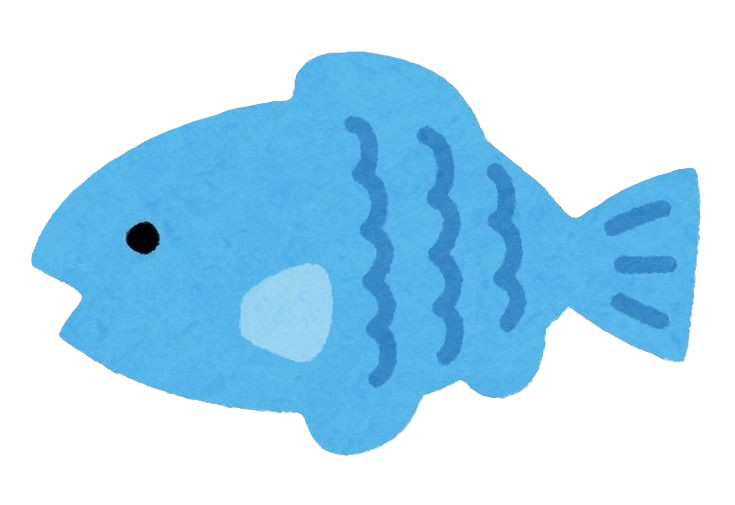
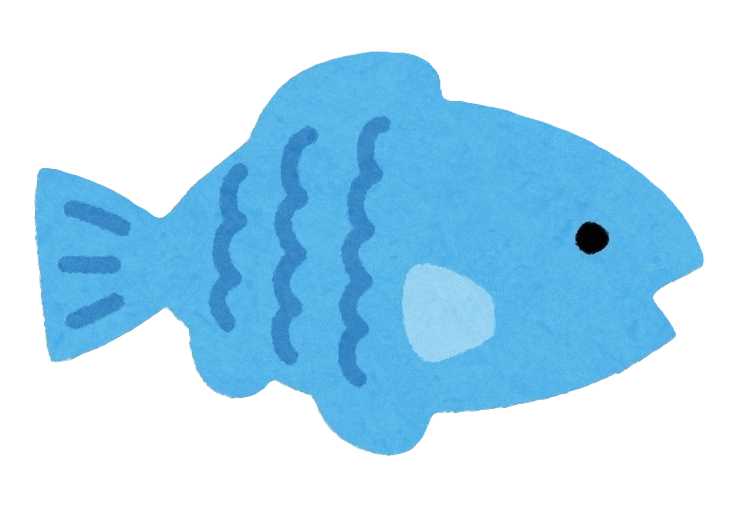
commit

Changed region(s): [[0.0299, 0.1485, 0.9578, 0.9208], [0.3592, 0.0891, 0.5986, 0.2079]]

diff --git a/fishing.py b/fishing.py
@@ -8,6 +8,8 @@ pygame.init()
 # 設定遊戲視窗大小
 screen_width = 640
 screen_height = 480
+max_x = 600
+max_y = 400
 screen = pygame.display.set_mode((screen_width, screen_height))
 pygame.display.set_caption('釣魚遊戲')
 
@@ -16,11 +18,18 @@ background_image = pygame.image.load("background.png")
 background_image = pygame.transform.scale(background_image, (screen_width, screen_height))  # 調整背景圖片大小
 
 # 載入魚的圖片
-fish1_image = pygame.image.load("fish1.png")
-fish1_image = pygame.transform.scale(fish1_image, (50,50))
+fish_images = []
+for i in range(1, 5): 
+    img = pygame.image.load(f"fish{i}.png")
+    img = pygame.transform.scale(img, (50, 50))
+    fish_images.append(img)
 
-fish2_image = pygame.image.load("fish2.png")
-fish2_image = pygame.transform.scale(fish2_image, (50,50))
+# 載入垃圾的圖片
+trash_images = []
+for i in range(1, 4): 
+    img = pygame.image.load(f"trash{i}.png")
+    img = pygame.transform.scale(img, (50, 50))
+    trash_images.append(img)
 
 fishing_rod = pygame.image.load("fishingRod.png")
 fishing_rod = pygame.transform.scale(fishing_rod, (50, 50))
@@ -32,10 +41,29 @@ if not cap.isOpened():
     exit()
 
 # 設定魚的位置
-fish_x = random.randint(50, screen_width - 50)
-fish_y = random.randint(50, screen_height - 50)
-fish_speed_x = random.choice([-1, 1]) * random.uniform(0.5, 2)
-fish_speed_y = random.choice([-1, 1]) * random.uniform(0.5, 2)
+fish_pos = []
+for _ in range(10):
+    fish = {
+        "x": random.randint(0, max_x),
+        "y": random.randint(60, max_y),
+        "speed_x": random.uniform(-2, 2),
+        "speed_y": random.uniform(0, 2),
+        "image": random.choice(fish_images),
+    }
+    fish["image_flip"] = pygame.transform.flip(fish["image"], True, False)
+    fish_pos.append(fish)
+
+# 設定垃圾的位置
+trash_pos = []
+for _ in range(4):
+    trash = {
+        "x": random.randint(0, max_x),
+        "y": random.randint(60, max_y),
+        "speed_x": random.uniform(-2, 2),
+        "speed_y": random.uniform(0, 2),
+        "image": random.choice(trash_images),
+    }
+    trash_pos.append(trash)
 
 score = 0
 # 遊戲主循環
@@ -57,34 +85,77 @@ while running:
     screen.blit(fishing_rod, (screen.get_width() - fishing_rod.get_width() - 10, 10))
 
     # 更新魚的位置
-    fish_x += fish_speed_x
-    fish_y += fish_speed_y
+    for fish in fish_pos:
+        fish["x"] += fish["speed_x"]
+        fish["y"] += fish["speed_y"]
 
-    # 如果魚碰到邊界，讓牠反向游
-    if fish_x <= 0 or fish_x >= screen_width - 50:
-        fish_speed_x *= -1
-    if fish_y <= 0 or fish_y >= screen_width - 50:
-        fish_speed_y *= -1
+        # 如果魚碰到邊界，讓牠反向游
+        if fish["x"] <= 0 or fish["x"] >= max_x:
+            fish["speed_x"] *= -1
+        if fish["y"] <= 70 or fish["y"] >= max_y:
+            fish["speed_y"] *= -1
 
-    #有小機率讓魚的方向稍微改變，增加自然感
-    if random.random() < 0.01:
-        fish_speed_x += random.uniform(-0.5, 0.5)
-        fish_speed_y += random.uniform(-0.5, 0.5)
+        #有小機率讓魚的方向稍微改變，增加自然感
+        if random.random() < 0.01:
+            fish["speed_x"] += random.uniform(-0.5, 0.5)
+            fish["speed_y"] += random.uniform(-0.5, 0.5)
 
-    #限制最大速度
-    fish_speed_x = max(min(fish_speed_x, 2), -2)
-    fish_speed_y = max(min(fish_speed_y, 2), -2)
+        #限制最大速度
+        fish["speed_x"] = max(min(fish["speed_x"], 2), -2)
+        fish["speed_y"] = max(min(fish["speed_y"], 2), -2)
+
+    # 更新垃圾的位置
+    for trash in trash_pos:
+        trash["x"] += trash["speed_x"]
+        trash["y"] += trash["speed_y"]
+
+        # 如果垃圾碰到邊界，讓牠反向游
+        if trash["x"] <= 0 or trash["x"] >= max_x:
+            trash["speed_x"] *= -1
+        if trash["y"] <= 70 or trash["y"] >= max_y:
+            trash["speed_y"] *= -1
+
+        #限制最大速度
+        trash["speed_x"] = max(min(trash["speed_x"], 2), -2)
+        trash["speed_y"] = max(min(trash["speed_y"], 2), -2)
 
     # 根據亮度決定魚的出現機率
-    if brightness < 150:
-        screen.blit(fish1_image, (fish_x, fish_y))
+    if brightness < 100:
+        for fish in fish_pos: 
+            if fish["speed_x"] < 0:
+                screen.blit(fish["image_flip"], (fish["x"], fish["y"]))
+            else:
+                screen.blit(fish["image"], (fish["x"], fish["y"]))
+        
+        for trash in trash_pos:
+            screen.blit(trash["image"], (trash["x"], trash["y"]))
+
+    elif brightness > 100 and brightness < 150:
+        for fish in fish_pos[1:7]: 
+            if fish["speed_x"] < 0:
+                screen.blit(fish["image_flip"], (fish["x"], fish["y"]))
+            else:
+                screen.blit(fish["image"], (fish["x"], fish["y"]))
+
+        for trash in trash_pos:
+            screen.blit(trash["image"], (trash["x"], trash["y"]))
+
+    else:
+        for fish in fish_pos[6:]:
+            if fish["speed_x"] < 0:
+                screen.blit(fish["image_flip"], (fish["x"], fish["y"]))
+            else:
+                screen.blit(fish["image"], (fish["x"], fish["y"]))
+        for trash in trash_pos:
+            screen.blit(trash["image"], (trash["x"], trash["y"]))
 
     # 顯示目前的亮度值
     font = pygame.font.SysFont(None, 30)
     text = font.render(f"亮度: {int(brightness)}", True, (0, 0, 0))
-    screen.blit(text, (10, 10))
+    screen.blit(text, (30, 40))
 
-    text2 = font.render("分數: {score}", True, (0, 0, 0))
+    #分數
+    text2 = font.render(f"score: {int(score)}", True, (0, 0, 0))
     screen.blit(text2, (15, 10))
 
     # 更新顯示
